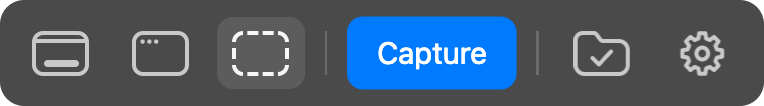
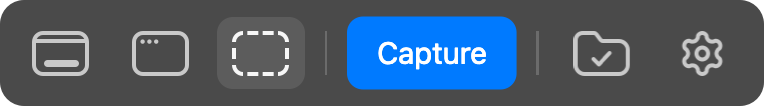
screenshot: the gear as six soft lobes around a hub, a shorter tick in the folder

Changed region(s): [[0.873, 0.283, 0.9634, 0.6792]]

diff --git a/screenshot/Sources/Screenshot/Bar.swift b/screenshot/Sources/Screenshot/Bar.swift
@@ -575,24 +575,22 @@ enum Glyph {
                 p.appendArc(from: CGPoint(x: 1, y: 21.5), to: CGPoint(x: 1, y: 1), radius: 4.5)
                 p.close()
                 // A tick in the body: the folders it saves to.
-                p.move(to: CGPoint(x: 9.5, y: 13.5))
+                p.move(to: CGPoint(x: 10, y: 14))
                 p.line(to: CGPoint(x: 12.75, y: 16.75))
-                p.line(to: CGPoint(x: 19, y: 10.25))
+                p.line(to: CGPoint(x: 18.25, y: 11))
                 p.lineCapStyle = .round
                 p.lineJoinStyle = .round
                 p.stroke()
             } else {
-                // One outline: eight tapered teeth on a ring, a round hub inside.
-                let c = CGPoint(x: 14.5, y: 11.25), tip: CGFloat = 10.25, root: CGFloat = 7.75
-                func at(_ r: CGFloat, _ deg: CGFloat) -> CGPoint {
-                    CGPoint(x: c.x + r * cos(deg * .pi / 180), y: c.y + r * sin(deg * .pi / 180))
-                }
-                for i in 0..<8 {
-                    let a = CGFloat(i) * 45
-                    i == 0 ? p.move(to: at(root, a - 15)) : p.line(to: at(root, a - 15))
-                    p.line(to: at(tip, a - 9))
-                    p.line(to: at(tip, a + 9))
-                    p.line(to: at(root, a + 15))
+                // Six soft lobes, one pointing up, and a round hub: a cosine on the radius, its
+                // peaks flattened so each lobe is broad rather than pointed.
+                let c = CGPoint(x: 14.5, y: 11.25), tip: CGFloat = 10.25, valley: CGFloat = 7.25
+                for deg in 0..<360 {
+                    let a = CGFloat(deg) * .pi / 180
+                    let w = cos(6 * (a + .pi / 2))
+                    let r = valley + (tip - valley) * (1 + copysign(pow(abs(w), 0.6), w)) / 2
+                    let pt = CGPoint(x: c.x + r * cos(a), y: c.y + r * sin(a))
+                    deg == 0 ? p.move(to: pt) : p.line(to: pt)
                 }
                 p.close()
                 p.appendOval(in: CGRect(x: c.x - 3, y: c.y - 3, width: 6, height: 6))
